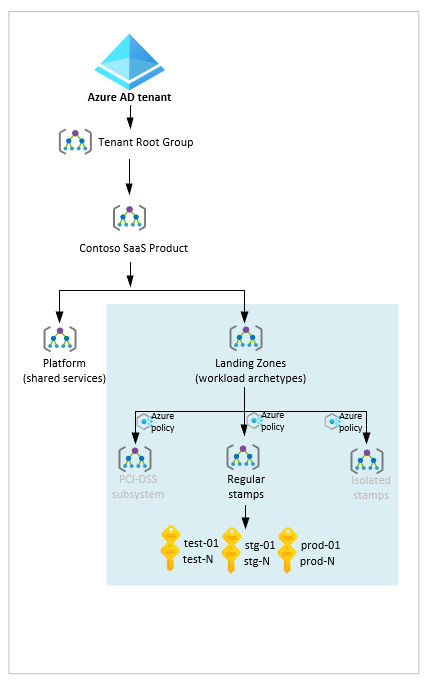
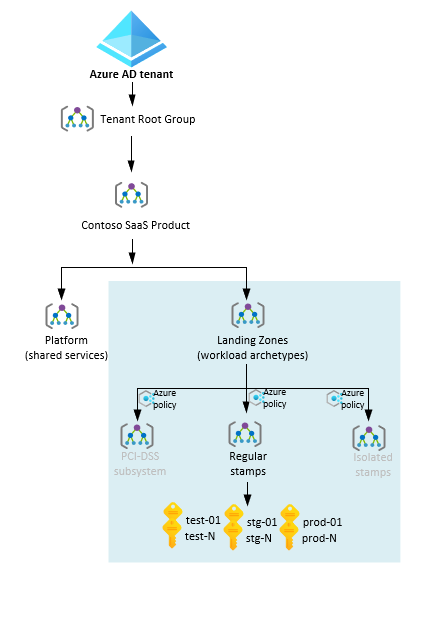
Remove borders from tab diagrams

Changed region(s): [[0.0605, 0.2484, 0.9372, 0.8696], [0.1209, 0.0, 0.4535, 0.2484], [0.0, 0.0311, 0.0302, 0.9938]]

diff --git a/docs/ready/landing-zone/isv-landing-zone.md b/docs/ready/landing-zone/isv-landing-zone.md
@@ -189,11 +189,11 @@ The following diagrams illustrate two potential options. Option A represents a s
 
 Select each tab to see the two diagrams.
 
-#### [Option A](#tab/mg-env-no/)
+#### [Option A](#tab/mg-env-no)
 
 ![Diagram that shows landing zone hierarchy without environment-specific management groups.](./media/isv-landing-zone/isv-landing-zones-mg-env-no.png)
 
-#### [Option B](#tab/mg-env-yes/)
+#### [Option B](#tab/mg-env-yes)
 
 ![Diagram that shows landing zone hierarchy with environment-specific management group level for SaaS ISVs who need to group many subscriptions of the same subsystem.](./media/isv-landing-zone/isv-landing-zones-mg-env-yes.png)
 
@@ -218,7 +218,7 @@ The following diagram illustrates two potential options. Option A does not inclu
 
 This section includes two examples of an Azure landing zone structure for a SaaS ISV. Select each tab to compare the two example landing zones.
 
-#### [Minimal](#tab/minimal/)
+#### [Minimal](#tab/minimal)
 
 The following diagram shows an example SaaS ISV Azure landing zones hierarchy with the following characteristics:
 
@@ -229,7 +229,7 @@ The following diagram shows an example SaaS ISV Azure landing zones hierarchy wi
 
 ![Diagram that shows an example Azure landing zone hierarchy for an ISV. Most of the components from this article are omitted.](./media/isv-landing-zone/isv-landing-zone-example1.png)
 
-#### [Comprehensive](#tab/comprehensive/)
+#### [Comprehensive](#tab/comprehensive)
 
 The following diagram shows an example SaaS ISV Azure landing zones hierarchy with the following characteristics:
 
